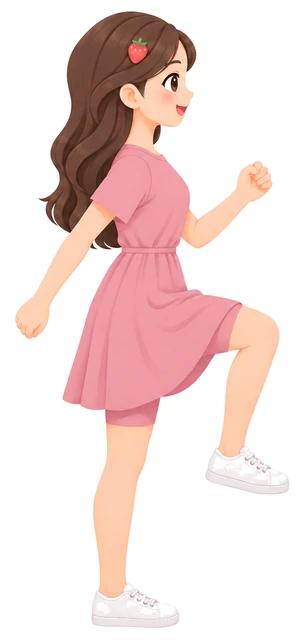
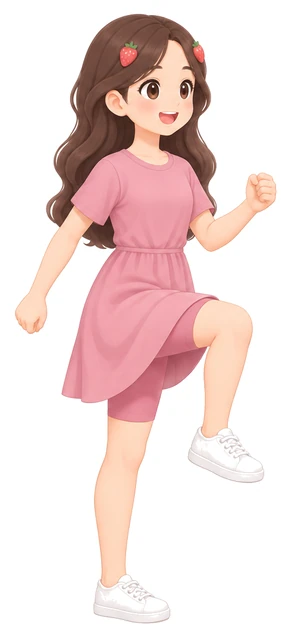
原地踏步換成重畫的新插圖（斜前方：抬膝↔雙腳站立，女生／男生）

Changed region(s): [[0.0928, 0.0, 0.9588, 1.0], [0.0309, 0.4688, 0.1546, 0.5312], [0.2474, 0.5, 0.3093, 0.5625]]

diff --git a/index.html b/index.html
@@ -1196,7 +1196,7 @@ function makeFig(id,host){
   const m=MOVES[id];
   const IM=curImgs()[id],dir=CH().dir;
   host.classList.toggle('photo',!!IM);
-  if(IM){host.innerHTML=`<div class="frames${IM.bob?' bob':''}${IM.anim?' bob an-'+IM.anim:''}" style="--per:${m.period*1.15}s"><img class="fa" src="${dir}${id}-a.webp?v=1124b" alt="${m.name}：起始動作"><img class="fb" src="${dir}${id}-b.webp?v=1124b" alt="${m.name}：結束動作"></div>`;return {paused:false}}const A={...BASE[m.base],...m.a};const B={...A,...m.b};const flat=m.base==='front'||m.base==='seatF';
+  if(IM){host.innerHTML=`<div class="frames${IM.bob?' bob':''}${IM.anim?' bob an-'+IM.anim:''}" style="--per:${m.period*1.15}s"><img class="fa" src="${dir}${id}-a.webp?v=1124c" alt="${m.name}：起始動作"><img class="fb" src="${dir}${id}-b.webp?v=1124c" alt="${m.name}：結束動作"></div>`;return {paused:false}}const A={...BASE[m.base],...m.a};const B={...A,...m.b};const flat=m.base==='front'||m.base==='seatF';
   const svg=document.createElementNS(NS,'svg');svg.setAttribute('viewBox','0 0 200 200');svg.setAttribute('role','img');svg.setAttribute('aria-label',m.name+'示範');
   svg.innerHTML='<line class="floor" x1="6" y1="187" x2="194" y2="187"/>'+m.props.map(p=>PROPS[p]).join('');
   const P={};

diff --git a/img/frames/boy/manifest.js b/img/frames/boy/manifest.js
@@ -1,2 +1,2 @@
 /* 由 處理新圖.py 自動產生，不用手改 */
-window.SG_BOY={"v": "202611222018", "moves": {"ankle": {}, "legext": {}, "sitstand": {}, "hamstring": {}, "march": {}, "heel": {}, "side": {}, "wallpush": {}, "calf": {}, "quad": {}, "chin": {}, "shoulder": {}, "neck": {}, "reach": {}, "palm": {}, "bridge": {}, "slr": {}, "smarch": {}, "spunch": {}, "stoe": {}, "skneehug": {}, "scat": {}, "slean": {}, "stwist": {}, "sbend": {}, "scircle": {}, "sopen": {}, "swrist": {}}, "scenes": ["alert", "done"]};
+window.SG_BOY={"v": "202611242255", "moves": {"ankle": {}, "legext": {}, "sitstand": {}, "hamstring": {}, "march": {}, "heel": {}, "side": {}, "wallpush": {}, "calf": {}, "quad": {}, "chin": {}, "shoulder": {}, "neck": {}, "reach": {}, "palm": {}, "bridge": {}, "slr": {}, "smarch": {}, "spunch": {}, "stoe": {}, "skneehug": {}, "scat": {}, "slean": {}, "stwist": {}, "sbend": {}, "scircle": {}, "sopen": {}, "swrist": {}}, "scenes": ["alert", "done"]};
